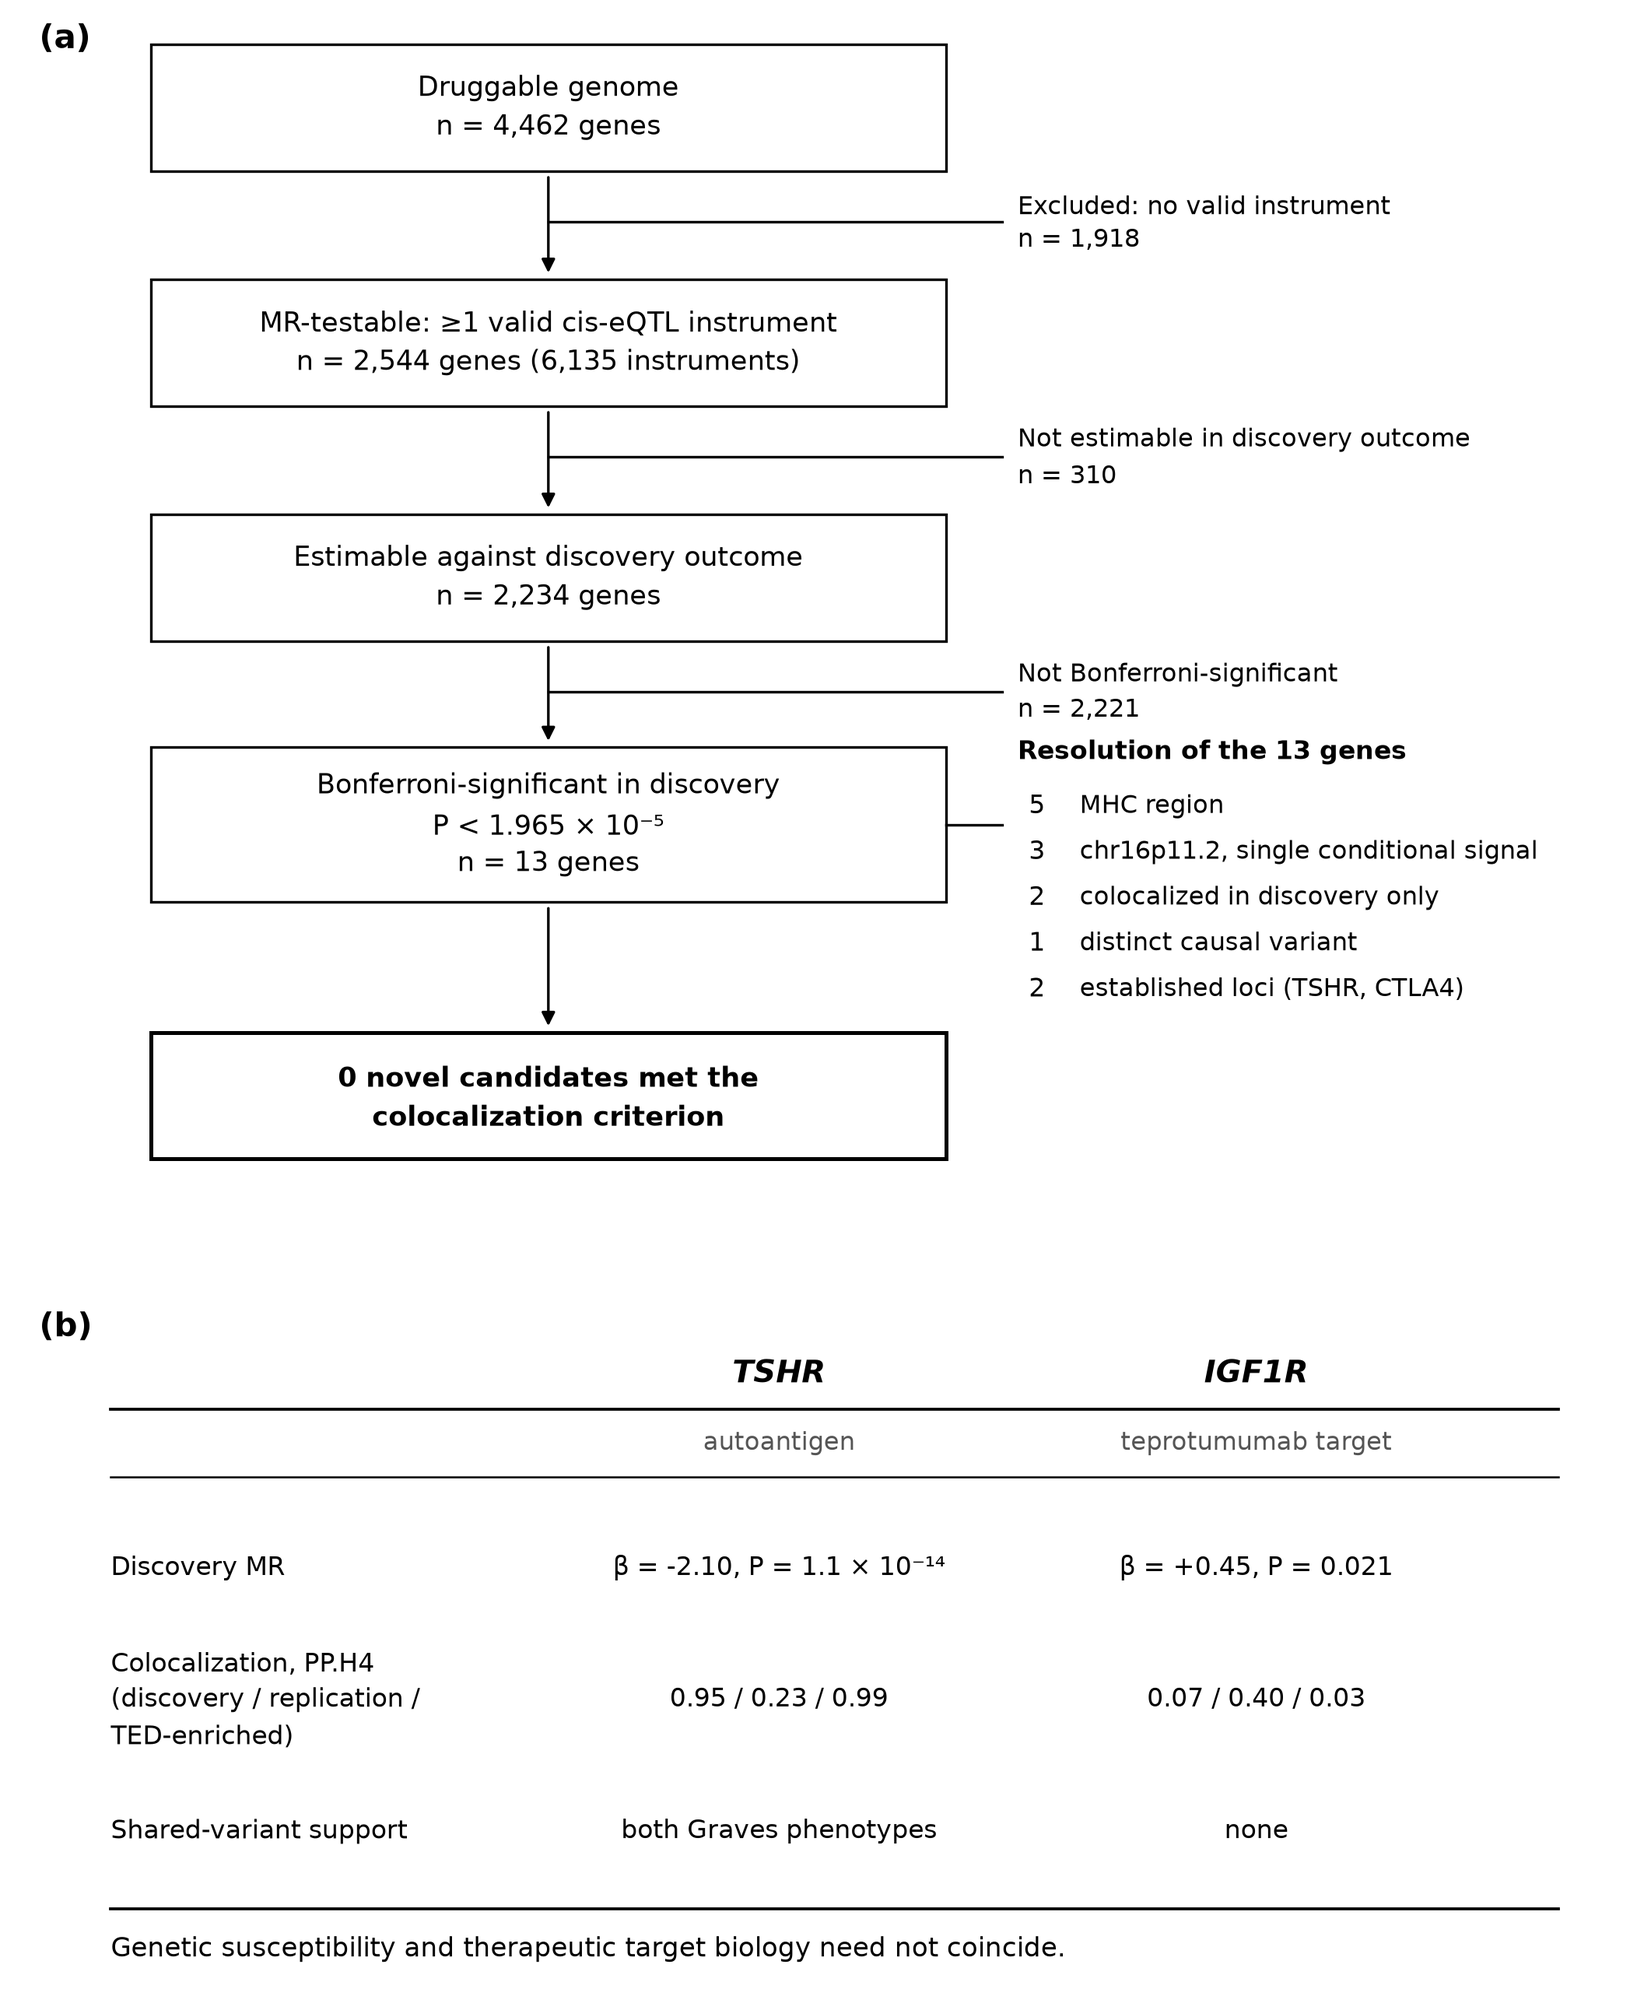
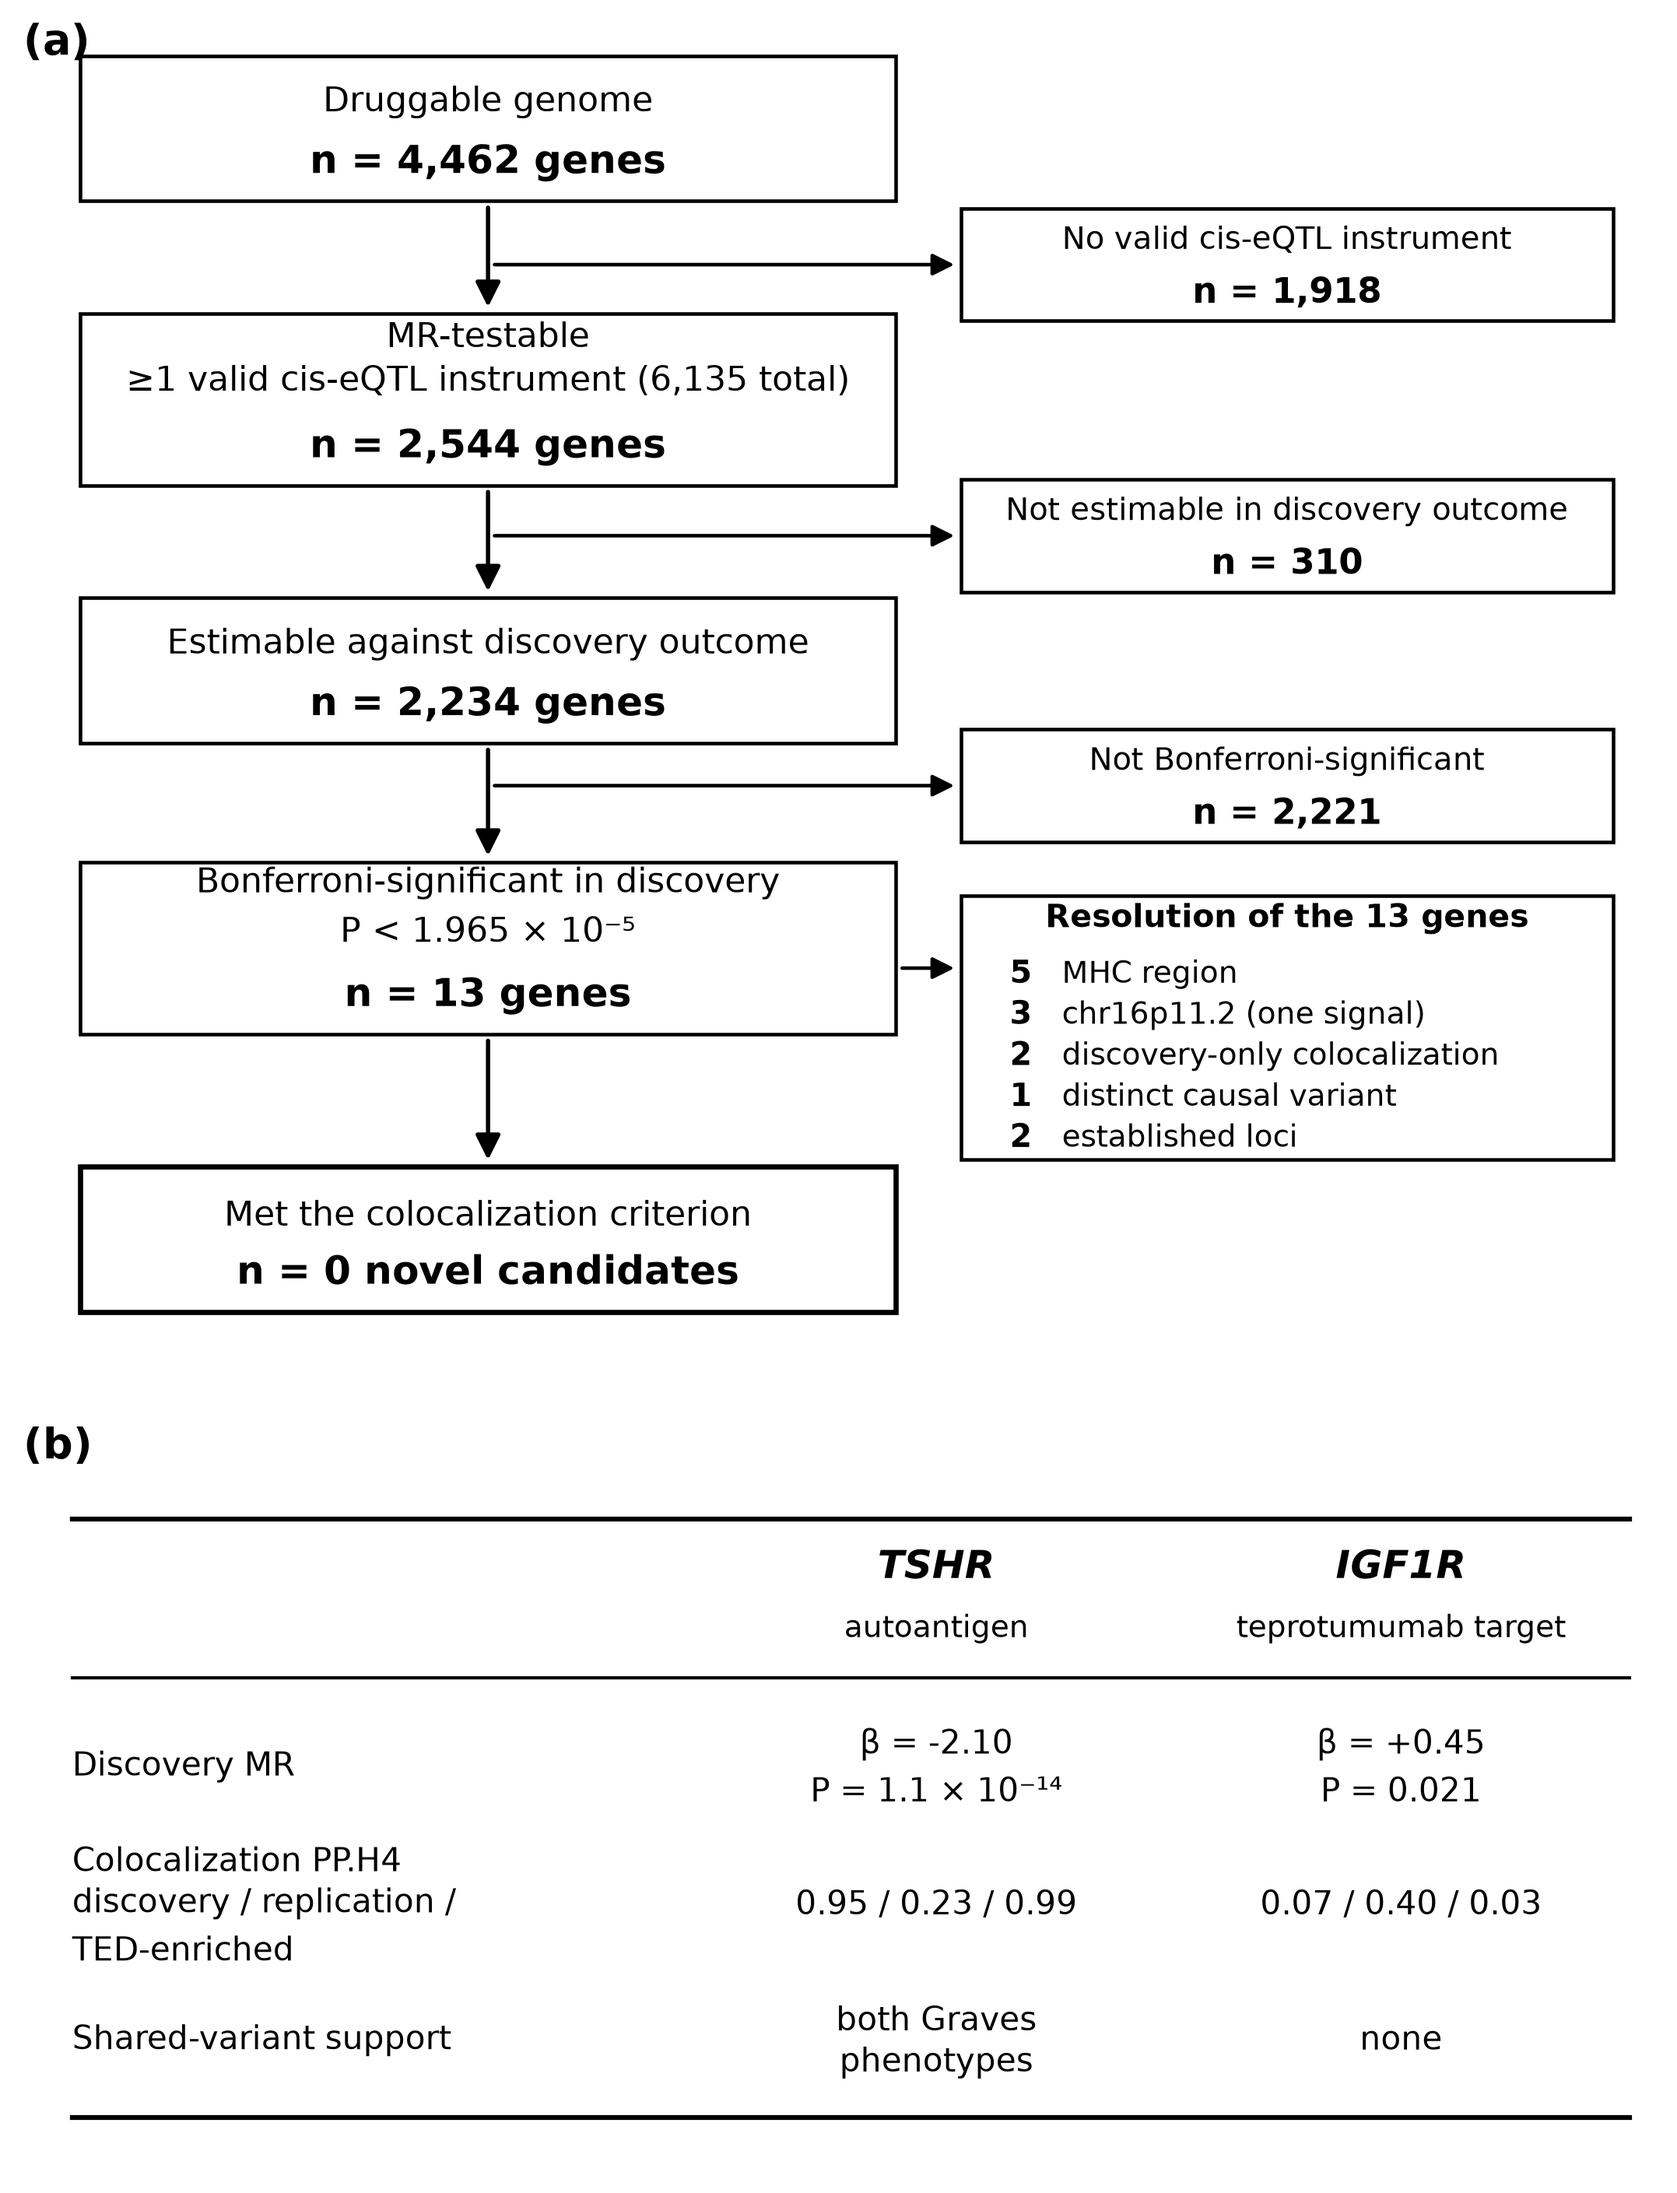
Redraw Figure 1 as a CONSORT-style flow diagram in monochrome
The previous version was cleaner than the original but still not a journal
diagram: 8pt text inside large boxes, exclusions on bare bracket lines, and a
bracket that struck through the box it pointed from.

Rebuilt to the convention clinical papers use for study flow:

- Pure black on white, no greys in the diagram itself.
- Text raised from 8.3pt to 10.5pt for labels and 12pt bold for the counts, so
  the numbers a reader scans are the largest thing in each box.
- Exclusions are now boxes with arrows, not bracket lines — the CONSORT idiom —
  each carrying its own count (1,918 / 310 / 2,221).
- The resolution of the thirteen genes is a boxed side-panel branching from the
  box it describes, with the per-category counts bold.
- Panel (b) is a booktabs-style table: heavy top and bottom rules, a light
  header rule, no vertical lines.

Three text collisions found on inspection and fixed: the instrument count
overflowed the MR-testable box (moved to the label line), the
Not-Bonferroni-significant box overlapped the resolution panel (repositioned,
heights adjusted), and panel (b)'s row label ran into the TSHR column (label
wrapped, columns shifted right).

Figure legends and manuscript text unchanged; only the rendering differs.

Audit ALL PASS.

Claude-Session: https://claude.ai/code/session_01TiAKffYKtUstdRZFkwtJA9

diff --git a/scripts/25_rebuild_figure1_claim.py b/scripts/25_rebuild_figure1_claim.py
@@ -60,11 +60,9 @@ def backbone_values():
     return out
 
 
-def flowbox(ax, cx, y, w, h, lines, fs=8.3):
-    ax.add_patch(Rectangle((cx - w / 2, y - h / 2), w, h, facecolor="white",
-                           edgecolor=INK, linewidth=0.8))
-    ax.text(cx, y, "\n".join(lines), ha="center", va="center",
-            fontsize=fs, linespacing=1.45, color=INK)
+def box(ax, cx, cy, w, h, lw=1.1):
+    ax.add_patch(Rectangle((cx - w / 2, cy - h / 2), w, h,
+                           facecolor="white", edgecolor=INK, linewidth=lw))
 
 
 def build():
@@ -75,102 +73,112 @@ def build():
     n["known"] = sum(1 for v in cls.values() if v.startswith("Established"))
     assert sum(n.values()) == 13
 
-    fig = plt.figure(figsize=(7.1, 8.9), dpi=300)
+    fig = plt.figure(figsize=(7.2, 9.6), dpi=300)
     fig.patch.set_facecolor("white")
 
-    # ---------------- (a) study flow ----------------
-    ax = fig.add_axes([0.02, 0.400, 0.96, 0.580]); ax.axis("off")
+    # ============ (a) study flow — CONSORT style ============
+    ax = fig.add_axes([0.015, 0.395, 0.97, 0.590]); ax.axis("off")
     ax.set_xlim(0, 1); ax.set_ylim(0, 1)
-    ax.text(0.01, 1.00, "(a)", fontsize=10, fontweight="bold", va="top")
+    ax.text(0.00, 1.005, "(a)", fontsize=13, fontweight="bold", va="top")
 
-    CX, W, H = 0.33, 0.50, 0.105
-    steps = [
-        (0.930, ["Druggable genome", "n = 4,462 genes"]),
-        (0.735, ["MR-testable: \u22651 valid cis-eQTL instrument", "n = 2,544 genes (6,135 instruments)"]),
-        (0.540, ["Estimable against discovery outcome", "n = 2,234 genes"]),
-        (0.335, ["Bonferroni-significant in discovery", "P < 1.965 \u00d7 10\u207b\u2075", "n = 13 genes"]),
-        (0.110, ["0 novel candidates met the", "colocalization criterion"]),
+    MX, MW = 0.285, 0.50          # main spine
+    EX, EW = 0.775, 0.40          # exclusion column
+    LAB, NUM = 10.5, 12.0
+
+    main = [
+        (0.925, 0.110, "Druggable genome", "n = 4,462 genes"),
+        (0.720, 0.130, "MR-testable\n\u22651 valid cis-eQTL instrument (6,135 total)",
+         "n = 2,544 genes"),
+        (0.515, 0.110, "Estimable against discovery outcome", "n = 2,234 genes"),
+        (0.305, 0.130, "Bonferroni-significant in discovery\nP < 1.965 \u00d7 10\u207b\u2075",
+         "n = 13 genes"),
+        (0.085, 0.110, "Met the colocalization criterion", "n = 0 novel candidates"),
     ]
-    for i, (y, lines) in enumerate(steps):
-        hh = H * (1.22 if len(lines) > 2 else 1.0)
-        bold = (i == len(steps) - 1)
-        ax.add_patch(Rectangle((CX - W / 2, y - hh / 2), W, hh, facecolor="white",
-                               edgecolor=INK, linewidth=1.2 if bold else 0.8))
-        ax.text(CX, y, "\n".join(lines), ha="center", va="center",
-                fontsize=8.3, linespacing=1.45, color=INK,
-                fontweight="bold" if bold else "normal")
-        if i < len(steps) - 1:
-            nh = H * (1.22 if len(steps[i + 1][1]) > 2 else 1.0)
-            ax.annotate("", xy=(CX, steps[i + 1][0] + nh / 2), xytext=(CX, y - hh / 2),
-                        arrowprops=dict(arrowstyle="-|>", color=INK, lw=0.8))
+    for k, (cy, h, lab, num) in enumerate(main):
+        last = (k == len(main) - 1)
+        box(ax, MX, cy, MW, h, lw=1.6 if last else 1.1)
+        nlines = lab.count("\n") + 1
+        ax.text(MX, cy + (0.020 if nlines == 1 else 0.032), lab, ha="center", va="center",
+                fontsize=LAB, linespacing=1.35, color=INK)
+        ax.text(MX, cy - (0.026 if nlines == 1 else 0.036), num, ha="center", va="center",
+                fontsize=NUM, fontweight="bold", color=INK)
+        if not last:
+            ny, nh = main[k + 1][0], main[k + 1][1]
+            ax.annotate("", xy=(MX, ny + nh / 2), xytext=(MX, cy - h / 2),
+                        arrowprops=dict(arrowstyle="-|>", color=INK, lw=1.3,
+                                        mutation_scale=16))
 
-    # exclusions bracketed to the right of each transition
-    for y, lines in [(0.835, ["Excluded: no valid instrument", "n = 1,918"]),
-                     (0.640, ["Not estimable in discovery outcome", "n = 310"]),
-                     (0.445, ["Not Bonferroni-significant", "n = 2,221"])]:
-        ax.plot([CX, 0.615], [y, y], color=INK, lw=0.8)
-        ax.text(0.625, y, "\n".join(lines), va="center", fontsize=7.6,
-                linespacing=1.4, color=INK)
+    # exclusion boxes, branching from each transition
+    for cy, lab, num in [(0.822, "No valid cis-eQTL instrument", "n = 1,918"),
+                         (0.617, "Not estimable in discovery outcome", "n = 310"),
+                         (0.428, "Not Bonferroni-significant", "n = 2,221")]:
+        ax.annotate("", xy=(EX - EW / 2, cy), xytext=(MX, cy),
+                    arrowprops=dict(arrowstyle="-|>", color=INK, lw=1.1,
+                                    mutation_scale=14))
+        box(ax, EX, cy, EW, 0.085)
+        ax.text(EX, cy + 0.018, lab, ha="center", va="center", fontsize=9.6, color=INK)
+        ax.text(EX, cy - 0.022, num, ha="center", va="center", fontsize=10.8,
+                fontweight="bold", color=INK)
 
-    # resolution of the 13, bracketed from the 13-gene box
-    ax.plot([CX + W / 2, 0.615], [0.335, 0.335], color=INK, lw=0.8)
-    ax.text(0.625, 0.395, "Resolution of the 13 genes", fontsize=8.0,
-            fontweight="bold", va="center", color=INK)
+    # resolution of the 13, branching sideways from that box
+    cy = 0.245
+    ax.annotate("", xy=(EX - EW / 2, 0.290), xytext=(MX + MW / 2, 0.290),
+                arrowprops=dict(arrowstyle="-|>", color=INK, lw=1.1, mutation_scale=14))
+    box(ax, EX, cy, EW, 0.200)
+    ax.text(EX, cy + 0.076, "Resolution of the 13 genes", ha="center",
+            fontsize=9.8, fontweight="bold", color=INK)
     rows = [(n["MHC"], "MHC region"),
-            (n["chr16p11.2"], "chr16p11.2, single conditional signal"),
-            (n["single-outcome"], "colocalized in discovery only"),
+            (n["chr16p11.2"], "chr16p11.2 (one signal)"),
+            (n["single-outcome"], "discovery-only colocalization"),
             (n["distinct-variant"], "distinct causal variant"),
-            (n["known"], "established loci (TSHR, CTLA4)")]
-    yy = 0.350
+            (n["known"], "established loci")]
+    yy = cy + 0.040
     for k, lab in rows:
-        ax.text(0.632, yy, f"{k}", fontsize=8.0, va="center", color=INK)
-        ax.text(0.664, yy, lab, fontsize=7.6, va="center", color=INK)
-        yy -= 0.038
+        ax.text(EX - EW / 2 + 0.030, yy, str(k), fontsize=9.8, va="center",
+                fontweight="bold", color=INK)
+        ax.text(EX - EW / 2 + 0.062, yy, lab, fontsize=9.4, va="center", color=INK)
+        yy -= 0.031
 
-    # ---------------- (b) comparison ----------------
-    axb = fig.add_axes([0.02, 0.035, 0.96, 0.325]); axb.axis("off")
+    # ============ (b) comparison table ============
+    axb = fig.add_axes([0.015, 0.030, 0.97, 0.330]); axb.axis("off")
     axb.set_xlim(0, 1); axb.set_ylim(0, 1)
-    axb.text(0.01, 1.00, "(b)", fontsize=10, fontweight="bold", va="top")
+    axb.text(0.00, 1.005, "(b)", fontsize=13, fontweight="bold", va="top")
 
     T, I = bb["TSHR"], bb["IGF1R"]
-    x0, xT, xI = 0.055, 0.475, 0.775
-    axb.plot([x0, 0.965], [0.855, 0.855], color=INK, lw=0.9)
-    axb.text(xT, 0.895, "TSHR", ha="center", fontsize=9.5, style="italic",
+    x0, xT, xI, xR = 0.030, 0.560, 0.845, 0.985
+    axb.plot([x0, xR], [0.880, 0.880], color=INK, lw=1.5)
+    axb.text(xT, 0.800, "TSHR", ha="center", fontsize=12, style="italic",
              fontweight="bold", color=INK)
-    axb.text(xI, 0.895, "IGF1R", ha="center", fontsize=9.5, style="italic",
+    axb.text(xI, 0.800, "IGF1R", ha="center", fontsize=12, style="italic",
              fontweight="bold", color=INK)
-    axb.text(xT, 0.795, "autoantigen", ha="center", fontsize=7.6, color=RULE)
-    axb.text(xI, 0.795, "teprotumumab target", ha="center", fontsize=7.6, color=RULE)
-    axb.plot([x0, 0.965], [0.755, 0.755], color=INK, lw=0.6)
+    axb.text(xT, 0.720, "autoantigen", ha="center", fontsize=9.4, color=INK)
+    axb.text(xI, 0.720, "teprotumumab target", ha="center", fontsize=9.4, color=INK)
+    axb.plot([x0, xR], [0.665, 0.665], color=INK, lw=1.0)
 
     body = [
-        ("Discovery MR",
-         f"β = {T['beta']:+.2f}, P = 1.1 × 10⁻¹⁴",
-         f"β = {I['beta']:+.2f}, P = {I['p']:.3f}"),
-        ("Colocalization, PP.H4\n(discovery / replication /\nTED-enriched)",
+        ("Discovery MR", f"\u03b2 = {T['beta']:+.2f}\nP = 1.1 \u00d7 10\u207b\u00b9\u2074",
+         f"\u03b2 = {I['beta']:+.2f}\nP = {I['p']:.3f}"),
+        ("Colocalization PP.H4\ndiscovery / replication /\nTED-enriched",
          " / ".join(f"{v:.2f}" for v in T["h4"]),
          " / ".join(f"{v:.2f}" for v in I["h4"])),
-        ("Shared-variant support",
-         "both Graves phenotypes",
-         "none"),
+        ("Shared-variant support", "both Graves\nphenotypes", "none"),
     ]
-    yy = 0.620
+    yy = 0.545
     for lab, tv, iv in body:
-        axb.text(x0, yy, lab, va="center", fontsize=8.0, linespacing=1.4, color=INK)
-        axb.text(xT, yy, tv, ha="center", va="center", fontsize=8.0, color=INK)
-        axb.text(xI, yy, iv, ha="center", va="center", fontsize=8.0, color=INK)
-        yy -= 0.195
-    axb.plot([x0, 0.965], [0.115, 0.115], color=INK, lw=0.9)
-    axb.text(x0, 0.055,
-             "Genetic susceptibility and therapeutic target biology need not coincide.",
-             fontsize=8.2, va="center", color=INK)
+        axb.text(x0, yy, lab, va="center", fontsize=10.2, linespacing=1.35, color=INK)
+        axb.text(xT, yy, tv, ha="center", va="center", fontsize=10.2,
+                 linespacing=1.35, color=INK)
+        axb.text(xI, yy, iv, ha="center", va="center", fontsize=10.2,
+                 linespacing=1.35, color=INK)
+        yy -= 0.185
+    axb.plot([x0, xR], [0.070, 0.070], color=INK, lw=1.5)
 
-    for p in OUT:
-        fig.savefig(p, dpi=300, facecolor="white", bbox_inches="tight")
+    for path in OUT:
+        fig.savefig(path, dpi=300, facecolor="white", bbox_inches="tight")
     plt.close(fig)
-    print("Figure 1 rebuilt in journal format")
+    print("Figure 1 rebuilt (CONSORT-style, monochrome)")
     print(f"  flow: 4,462 -> 2,544 -> 2,234 -> 13 -> 0")
-    print(f"  13 = {n['MHC']} MHC + {n['chr16p11.2']} chr16 + {n['single-outcome']} single-outcome"
+    print(f"  13 = {n['MHC']} MHC + {n['chr16p11.2']} chr16 + {n['single-outcome']} discovery-only"
           f" + {n['distinct-variant']} distinct + {n['known']} established")
 
 
